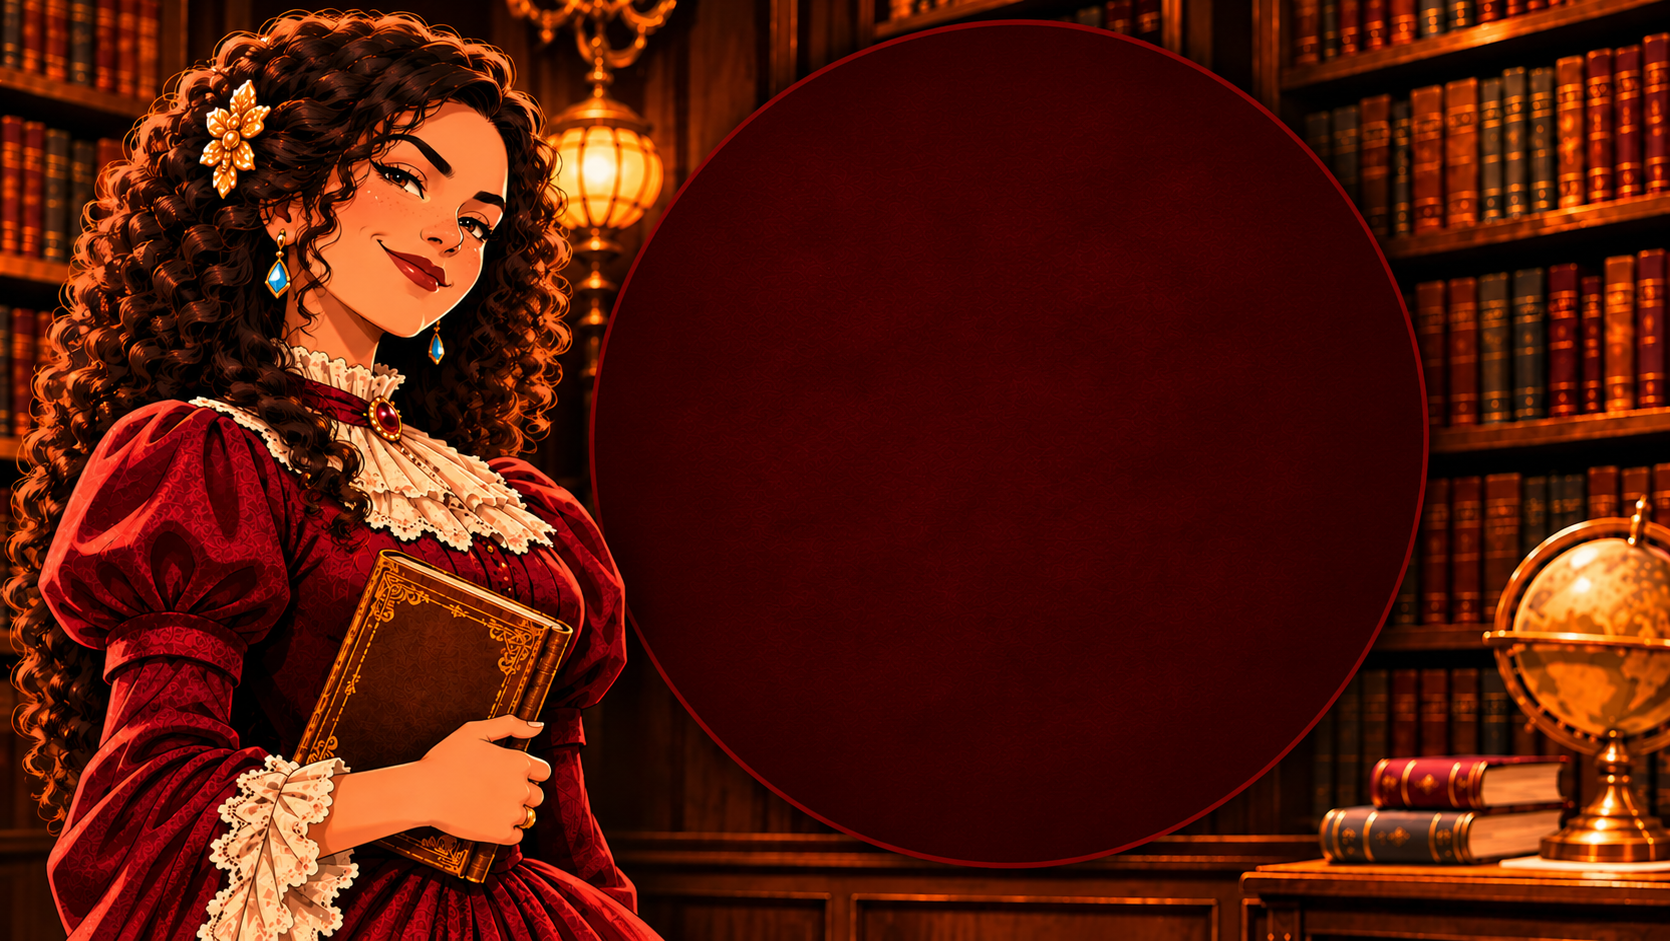
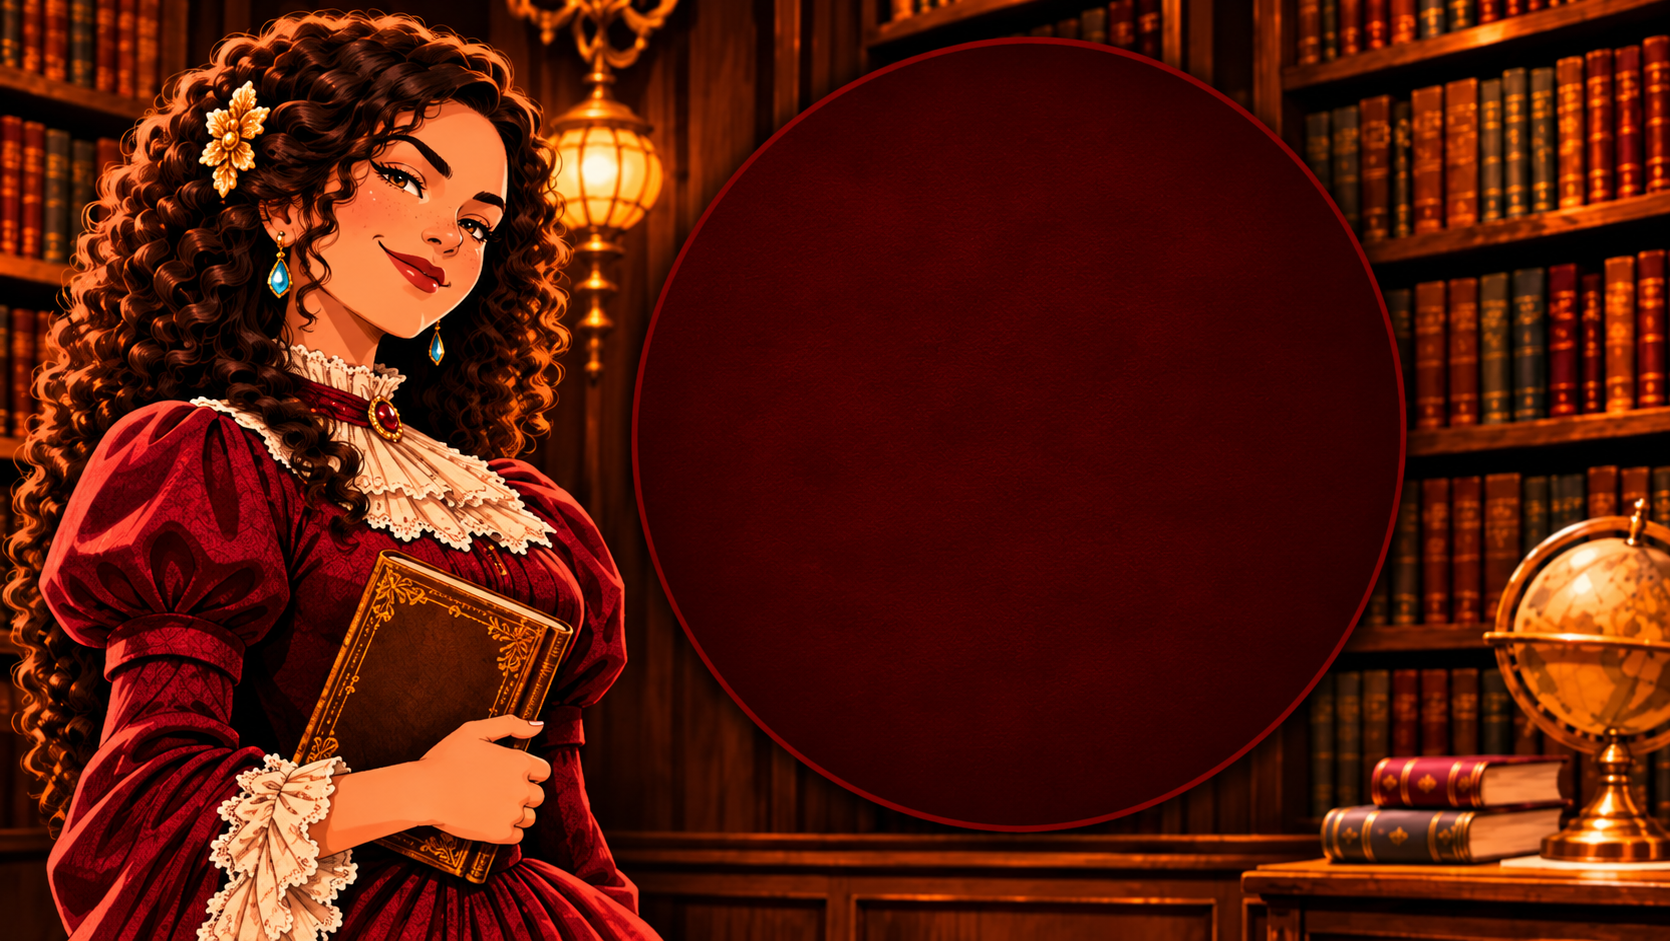
Add files via upload

Changed region(s): [[0.0, 0.0, 1.0, 1.0], [0.903, 0.9862, 0.9653, 1.0], [0.7473, 0.9862, 0.7784, 1.0]]

diff --git a/style.css b/style.css
@@ -7567,3 +7567,103 @@ img { max-width: 100%; }
     min-height: 7px !important;
   }
 }
+
+/* ==========================================================
+   V68 — PADRÃO ÚNICO PARA AS BOAS-VINDAS DOS DOIS PERFIS
+   Mesma escala de texto, mesma hierarquia e dois ornamentos dourados.
+   A área é posicionada no centro do círculo de cada arte.
+   ========================================================== */
+#inicio .home-hero-banner .mock-greeting-copy {
+  box-sizing: border-box !important;
+  position: absolute !important;
+  top: 46.2% !important;
+  left: 15.95% !important;
+  right: auto !important;
+  width: 37.5% !important;
+  height: auto !important;
+  min-height: 0 !important;
+  max-height: 78% !important;
+  margin: 0 !important;
+  padding: 6px 4px !important;
+  transform: translateY(-50%) !important;
+  display: flex !important;
+  flex: none !important;
+  flex-direction: column !important;
+  align-items: center !important;
+  justify-content: center !important;
+  gap: 4px !important;
+  overflow: visible !important;
+  text-align: center !important;
+  z-index: 5 !important;
+}
+#inicio .home-hero-banner.home-is-leticia .mock-greeting-copy {
+  left: 42.35% !important;
+  right: auto !important;
+  width: 37.5% !important;
+  top: 45.7% !important;
+}
+#inicio .home-hero-banner .mock-greeting-copy h2 {
+  box-sizing: border-box !important;
+  display: block !important;
+  width: 100% !important;
+  max-width: 100% !important;
+  margin: 0 !important;
+  padding: 0 !important;
+  color: #fff4df !important;
+  font: italic 700 clamp(17px, 4.1vw, 20.5px)/1.06 Georgia, "Times New Roman", serif !important;
+  letter-spacing: -.3px !important;
+  text-align: center !important;
+  white-space: normal !important;
+  overflow: visible !important;
+  overflow-wrap: normal !important;
+  text-wrap: balance !important;
+  text-shadow: 0 1px 3px rgba(0,0,0,.82) !important;
+}
+#inicio .home-hero-banner .mock-greeting-copy p {
+  box-sizing: border-box !important;
+  display: block !important;
+  width: 100% !important;
+  max-width: 100% !important;
+  margin: 0 !important;
+  padding: 0 !important;
+  color: #fff3df !important;
+  font: 600 clamp(12px, 3vw, 14px)/1.13 Georgia, "Times New Roman", serif !important;
+  text-align: center !important;
+  overflow-wrap: normal !important;
+  text-shadow: 0 1px 3px rgba(0,0,0,.85) !important;
+}
+#inicio .home-hero-banner .home-hero-divider,
+#inicio .home-hero-banner .home-hero-flourish {
+  display: block !important;
+  box-sizing: border-box !important;
+  flex: 0 0 15px !important;
+  width: 76% !important;
+  height: 15px !important;
+  min-height: 15px !important;
+  max-height: 15px !important;
+  margin: 1px auto !important;
+  opacity: .98 !important;
+  background: url("./assets/ornaments/home-divider-ornate.svg") center / 100% 100% no-repeat !important;
+  filter: drop-shadow(0 1px 2px rgba(0,0,0,.8)) !important;
+}
+@media (max-width: 380px) {
+  #inicio .home-hero-banner .mock-greeting-copy {
+    gap: 3px !important;
+    padding: 5px 3px !important;
+  }
+  #inicio .home-hero-banner .mock-greeting-copy h2 {
+    font-size: clamp(15px, 4.2vw, 17px) !important;
+    line-height: 1.04 !important;
+  }
+  #inicio .home-hero-banner .mock-greeting-copy p {
+    font-size: clamp(11px, 3.05vw, 12.5px) !important;
+    line-height: 1.1 !important;
+  }
+  #inicio .home-hero-banner .home-hero-divider,
+  #inicio .home-hero-banner .home-hero-flourish {
+    flex-basis: 12px !important;
+    height: 12px !important;
+    min-height: 12px !important;
+    max-height: 12px !important;
+  }
+}

diff --git a/index.html b/index.html
@@ -16,7 +16,7 @@
 <link rel="preconnect" href="https://fonts.googleapis.com">
 <link rel="preconnect" href="https://fonts.gstatic.com" crossorigin>
 <link href="https://fonts.googleapis.com/css2?family=Cormorant+Garamond:wght@400;500;600;700&family=Lora:wght@400;500;600&display=swap" rel="stylesheet">
-<link rel="stylesheet" href="./style.css?v=home-v67">
+<link rel="stylesheet" href="./style.css?v=home-v68">
 <link rel="stylesheet" href="./modules/estante/estante.css?v=58">
 <link rel="stylesheet" href="./modules/adicionar-livro/adicionar-livro.css?v=60">
 </head>

diff --git a/sw.js b/sw.js
@@ -1,4 +1,4 @@
-const CACHE_NAME = 'verso-prosa-home-v67';
+const CACHE_NAME = 'verso-prosa-home-v68';
 const APP_FILES = [
   './',
   './index.html',
@@ -58,7 +58,7 @@ const APP_FILES = [
   './assets/scenes/login-library-bg-v5.webp',
   './assets/login-emblem-gold-v5.png',
   './assets/scenes/login-bottom-approved-v6.webp',
-  './style.css?v=home-v67',
+  './style.css?v=home-v68',
   './modules/estante/estante.css?v=58',
   './modules/adicionar-livro/adicionar-livro.css?v=60',
   './app.js?v=modular-v60',

diff --git a/README.md b/README.md
@@ -35,3 +35,11 @@ A tela de login foi reconstruída com HTML e CSS. O arquivo de mockup completo n
 - O texto de Fernando e Letícia foi reposicionado e dimensionado para permanecer dentro da área interna do círculo bordô dos respectivos cards aprovados.
 - As duas artes, os módulos, o backend, as credenciais e as demais telas foram preservados.
 - O cache e a referência da folha de estilos foram atualizados para v67.
+
+
+## Padronização dos cards de boas-vindas (v68)
+
+- Fernando e Letícia usam a mesma escala tipográfica, a mesma estrutura de texto e os mesmos dois ornamentos dourados.
+- O texto ocupa uma área proporcional ao círculo, com altura automática para evitar cortes na saudação ou na mensagem.
+- A arte da Letícia foi recomposta com o medalhão bordô ligeiramente menor e deslocado para a direita, criando espaço visível entre a personagem e o círculo.
+- O cache do aplicativo e a referência da folha de estilos foram atualizados para v68.
